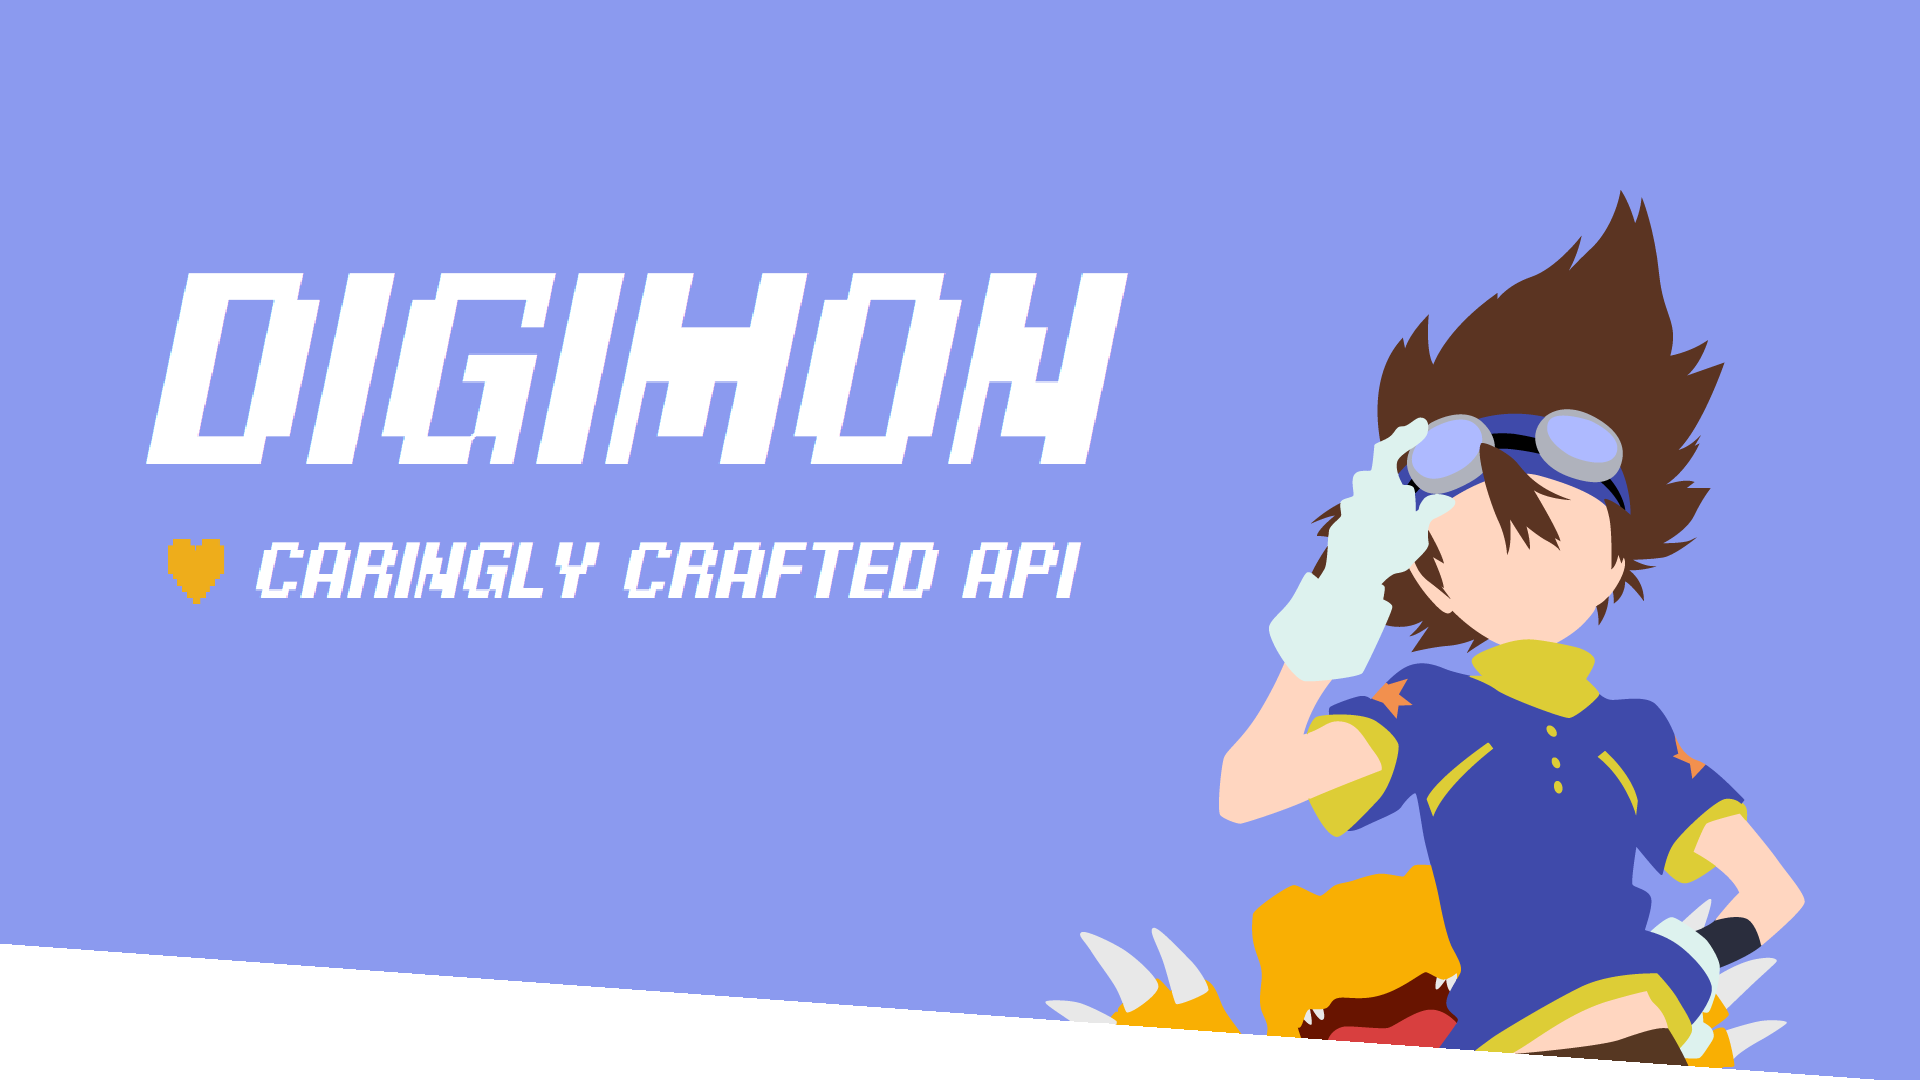
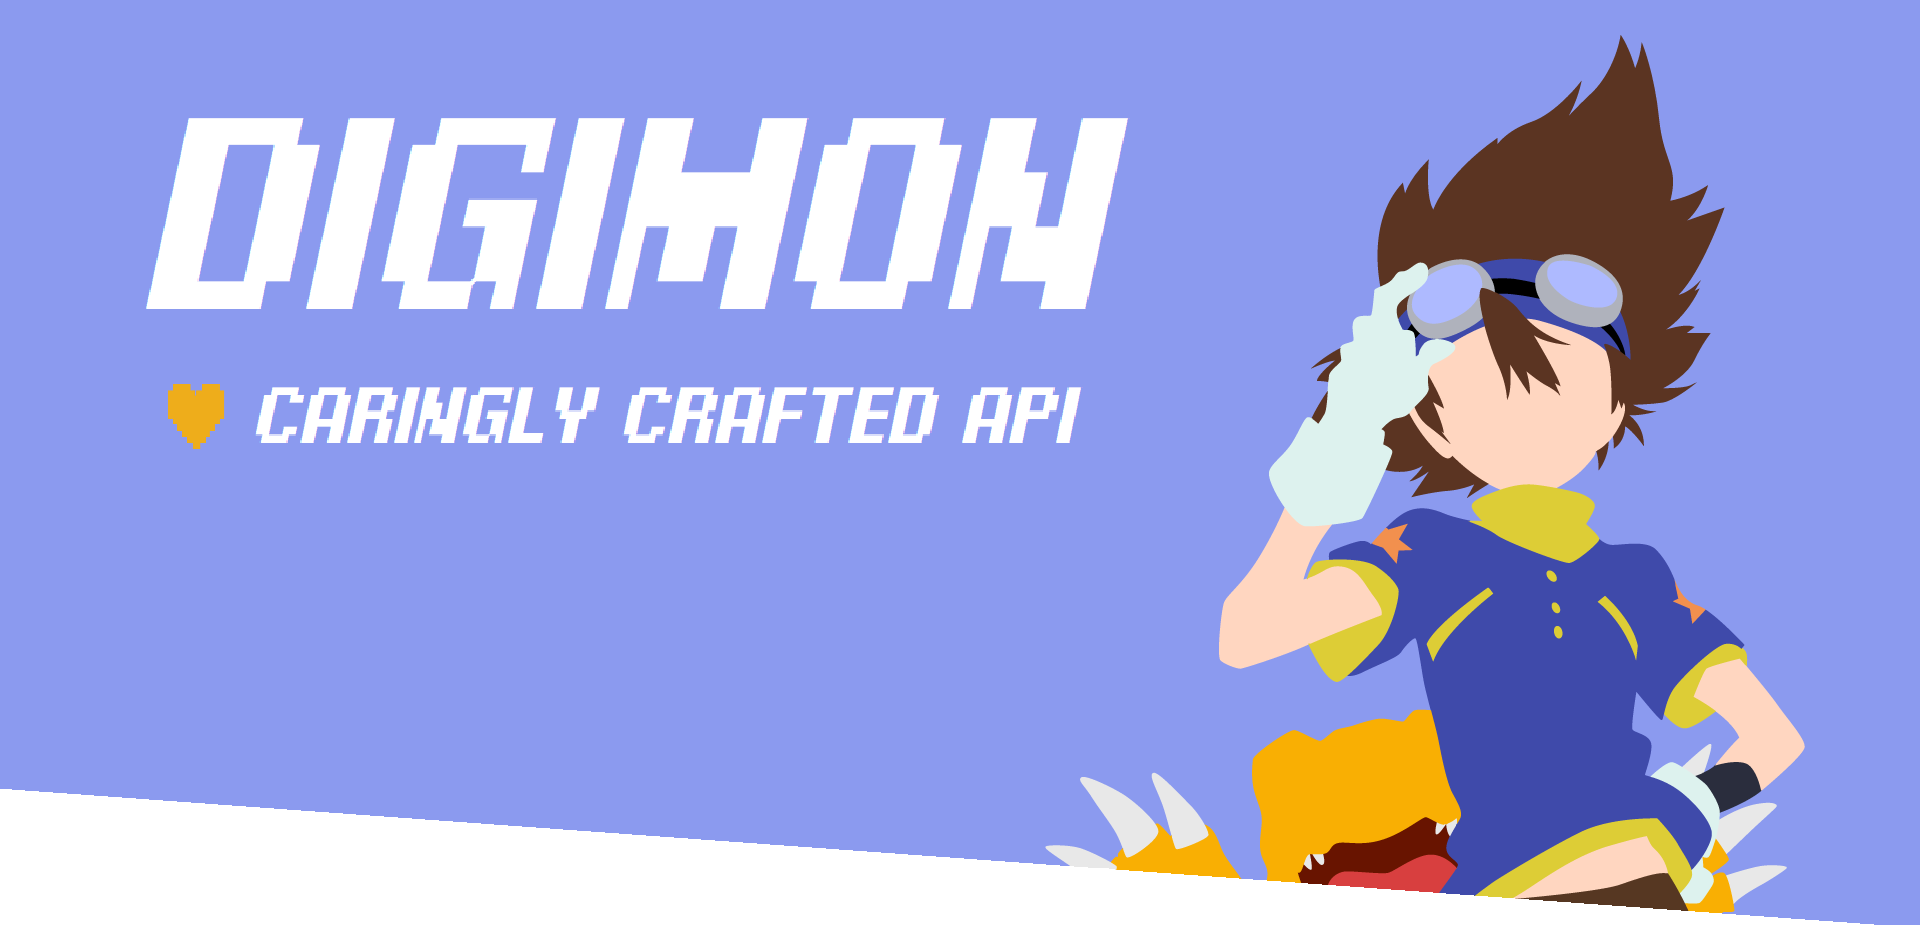
Update sonar configuration and add global and reset stylesheets

Changed region(s): [[0.0625, 0.1211, 0.5938, 0.5751], [0.0, 0.0303, 0.9375, 0.9989]]

diff --git a/src/index.scss b/src/index.scss
@@ -1,0 +1,64 @@
+$breakpoint_mobile: 320px;
+$breakpoint_desktop: 1200px;
+
+$create-primary-color: #9ecc96;
+$create-secondary-color: #028154;
+$library-primary-color: #ffbdab;
+$library-secondary-color: #754214;
+$detail-primary-color: #7c5da0;
+
+* {
+  box-sizing: border-box;
+}
+
+@font-face {
+  font-family: "Digimon";
+  src: url("/public/fonts/Pixel\ Digivolve.otf");
+}
+
+html,
+body {
+  font-family: "Digimon", serif;
+  min-width: 320px;
+  overflow-x: hidden;
+}
+
+html,
+body,
+div,
+span,
+h1,
+h2,
+h3,
+p,
+a,
+img,
+ol,
+ul,
+li,
+form,
+label,
+legend,
+footer,
+menu,
+nav,
+section {
+  margin: 0;
+  padding: 0;
+  border: 0;
+  font-size: 100%;
+  vertical-align: baseline;
+}
+
+footer,
+header,
+hgroup,
+menu,
+nav,
+section {
+  display: block;
+}
+ol,
+ul {
+  list-style: none;
+}

diff --git a/jest.config.js b/jest.config.js
@@ -1,8 +1,12 @@
 /** @type {import('ts-jest').JestConfigWithTsJest} */
 
 export default {
-  preset: 'ts-jest',
-  testEnvironment: 'jsdom',
-  testPathIgnorePatterns: ['dist'],
-  resolver: 'jest-ts-webcompat-resolver',
+  preset: "ts-jest",
+  testEnvironment: "jsdom",
+  testPathIgnorePatterns: ["dist"],
+  resolver: "jest-ts-webcompat-resolver",
+  moduleNameMapper: {
+    "\\.(css|scss)$": "identity-obj-proxy",
+  },
+  coveragePathIgnorePatterns: ["commitlint.config.cjs"],
 };

diff --git a/src/components/home/home.tsx b/src/components/home/home.tsx
@@ -8,8 +8,14 @@ export function Home() {
   return (
     <>
       <img
-        src="/public/backgrounds/desktop/HOME.png"
+        className="home--desktop-bg"
+        src="/backgrounds/desktop/HOME.png"
         alt="Digimon desktop background"
+      />
+      <img
+        className="home--mobile-bg"
+        src="/backgrounds/mobile/MOBILE.png"
+        alt="Digimon mobile background"
       />
       <Header
         title={title.toUpperCase()}

diff --git a/src/components/home/home.scss b/src/components/home/home.scss
@@ -1,11 +1,18 @@
-body,
-html {
-  margin: 0;
-  padding: 0;
-  box-sizing: border-box;
+$home-primary-color: #8b9aef;
+$home-secondary-color: #eead1b;
+
+.home--desktop-bg {
+  width: 100vw;
+  display: none;
+  @media only screen and (min-width: 1200px) {
+    display: block;
+  }
 }
 
-img {
-  width: 100vw;
+.home--mobile-bg {
   height: 100vh;
+  width: auto;
+  @media only screen and (min-width: 1200px) {
+    display: none;
+  }
 }

diff --git a/src/components/header/header.tsx b/src/components/header/header.tsx
@@ -1,3 +1,5 @@
+import "./header.scss";
+
 type Propstype = {
   title: string;
   subtitle: string;

diff --git a/src/components/header/header.scss b/src/components/header/header.scss
@@ -1,0 +1,7 @@
+h1 {
+  color: white;
+}
+
+h2 {
+  color: rgba(255, 255, 255, 0.6);
+}
